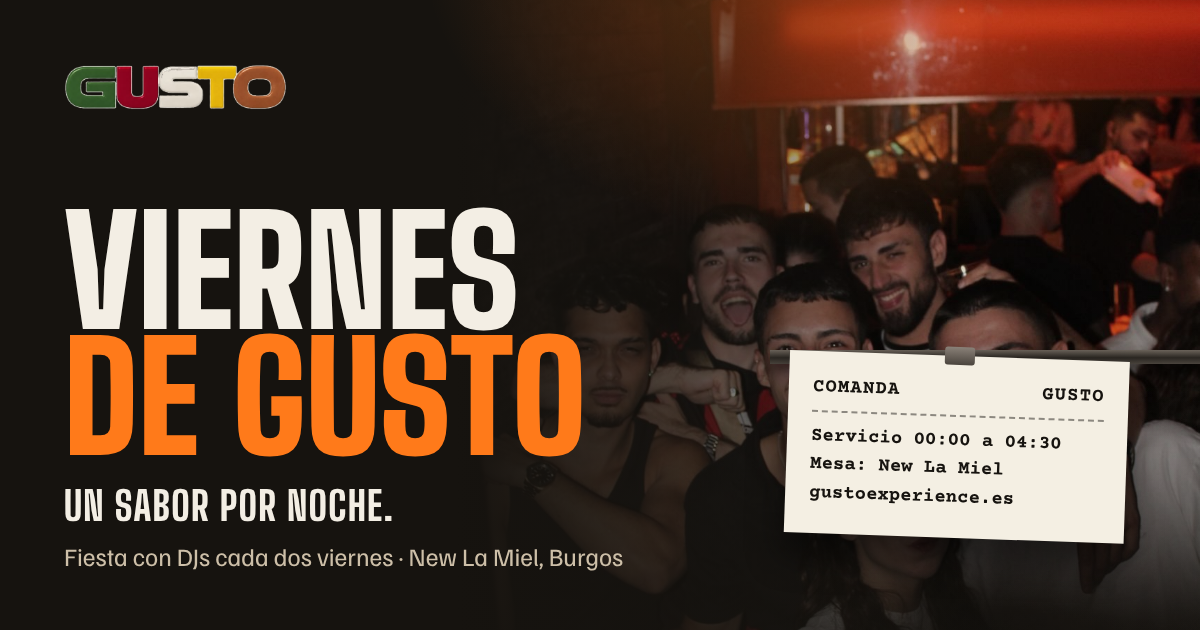
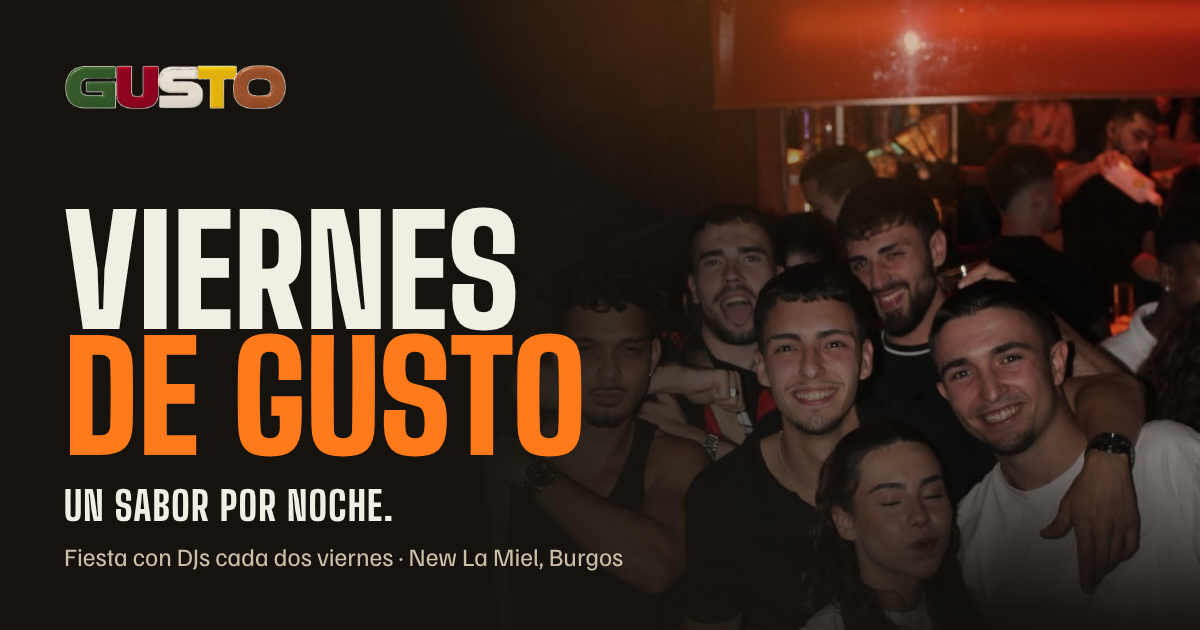
Imagen para compartir sin la comanda (og-image v6)
Claude-Session: https://claude.ai/code/session_01BAWG5sSexxeV32VypvJQZo

Changed region(s): [[0.6475, 0.5429, 1.0, 0.8746]]

diff --git a/index.html b/index.html
@@ -13,15 +13,15 @@
   <meta property="og:site_name" content="Viernes de Gusto">
   <meta property="og:title" content="Viernes de Gusto · New La Miel, Burgos">
   <meta property="og:description" content="El DJ en el centro y todos alrededor. Uno de cada dos viernes en New La Miel, Burgos. Primera edición: Umami, 16 de octubre.">
-  <meta property="og:image" content="https://www.gustoexperience.es/og-image.png?v=5">
+  <meta property="og:image" content="https://www.gustoexperience.es/og-image.png?v=6">
   <meta property="og:image:width" content="1200">
   <meta property="og:image:height" content="630">
-  <meta property="og:image:alt" content="Viernes de Gusto: foto de la fiesta en New La Miel con el título en grande y una comanda con el horario, de 00:00 a 04:30">
+  <meta property="og:image:alt" content="Viernes de Gusto: foto de la fiesta en New La Miel con el título en grande y el logo de Gusto">
   <meta property="og:locale" content="es_ES">
   <meta name="twitter:card" content="summary_large_image">
   <meta name="twitter:title" content="Viernes de Gusto · New La Miel, Burgos">
   <meta name="twitter:description" content="El DJ en el centro y todos alrededor. Uno de cada dos viernes en New La Miel, Burgos.">
-  <meta name="twitter:image" content="https://www.gustoexperience.es/og-image.png?v=5">
+  <meta name="twitter:image" content="https://www.gustoexperience.es/og-image.png?v=6">
   <link rel="icon" href="favicon-32.png?v=6" sizes="32x32" type="image/png">
   <link rel="icon" href="icon-192.png?v=6" sizes="192x192" type="image/png">
   <link rel="apple-touch-icon" href="apple-touch-icon.png?v=5">
@@ -64,7 +64,7 @@
         "endDate": "2026-10-17T04:30:00+02:00",
         "eventStatus": "https://schema.org/EventScheduled",
         "eventAttendanceMode": "https://schema.org/OfflineEventAttendanceMode",
-        "image": "https://www.gustoexperience.es/og-image.png?v=5",
+        "image": "https://www.gustoexperience.es/og-image.png?v=6",
         "location": { "@id": "#new-la-miel" },
         "organizer": [{ "@id": "#gusto" }, { "@id": "#new-la-miel" }],
         "performer": [

diff --git a/donde-se-sirve.html b/donde-se-sirve.html
@@ -13,15 +13,15 @@
   <meta property="og:site_name" content="Viernes de Gusto">
   <meta property="og:title" content="¿Dónde se sirve? · Viernes de Gusto">
   <meta property="og:description" content="El DJ en el centro y todos alrededor. Uno de cada dos viernes en New La Miel, Burgos. Primera edición: Umami, 16 de octubre.">
-  <meta property="og:image" content="https://www.gustoexperience.es/og-image.png?v=5">
+  <meta property="og:image" content="https://www.gustoexperience.es/og-image.png?v=6">
   <meta property="og:image:width" content="1200">
   <meta property="og:image:height" content="630">
-  <meta property="og:image:alt" content="Viernes de Gusto: foto de la fiesta en New La Miel con el título en grande y una comanda con el horario, de 00:00 a 04:30">
+  <meta property="og:image:alt" content="Viernes de Gusto: foto de la fiesta en New La Miel con el título en grande y el logo de Gusto">
   <meta property="og:locale" content="es_ES">
   <meta name="twitter:card" content="summary_large_image">
   <meta name="twitter:title" content="¿Dónde se sirve? · Viernes de Gusto">
   <meta name="twitter:description" content="El DJ en el centro y todos alrededor. Uno de cada dos viernes en New La Miel, Burgos.">
-  <meta name="twitter:image" content="https://www.gustoexperience.es/og-image.png?v=5">
+  <meta name="twitter:image" content="https://www.gustoexperience.es/og-image.png?v=6">
   <link rel="icon" href="favicon-32.png?v=6" sizes="32x32" type="image/png">
   <link rel="icon" href="icon-192.png?v=6" sizes="192x192" type="image/png">
   <link rel="apple-touch-icon" href="apple-touch-icon.png?v=5">

diff --git a/como-se-sirve.html b/como-se-sirve.html
@@ -13,15 +13,15 @@
   <meta property="og:site_name" content="Viernes de Gusto">
   <meta property="og:title" content="Cómo se sirve · Viernes de Gusto">
   <meta property="og:description" content="El DJ en el centro y todos alrededor. Uno de cada dos viernes en New La Miel, Burgos. Primera edición: Umami, 16 de octubre.">
-  <meta property="og:image" content="https://www.gustoexperience.es/og-image.png?v=5">
+  <meta property="og:image" content="https://www.gustoexperience.es/og-image.png?v=6">
   <meta property="og:image:width" content="1200">
   <meta property="og:image:height" content="630">
-  <meta property="og:image:alt" content="Viernes de Gusto: foto de la fiesta en New La Miel con el título en grande y una comanda con el horario, de 00:00 a 04:30">
+  <meta property="og:image:alt" content="Viernes de Gusto: foto de la fiesta en New La Miel con el título en grande y el logo de Gusto">
   <meta property="og:locale" content="es_ES">
   <meta name="twitter:card" content="summary_large_image">
   <meta name="twitter:title" content="Cómo se sirve · Viernes de Gusto">
   <meta name="twitter:description" content="El DJ en el centro y todos alrededor. Uno de cada dos viernes en New La Miel, Burgos.">
-  <meta name="twitter:image" content="https://www.gustoexperience.es/og-image.png?v=5">
+  <meta name="twitter:image" content="https://www.gustoexperience.es/og-image.png?v=6">
   <link rel="icon" href="favicon-32.png?v=6" sizes="32x32" type="image/png">
   <link rel="icon" href="icon-192.png?v=6" sizes="192x192" type="image/png">
   <link rel="apple-touch-icon" href="apple-touch-icon.png?v=5">

diff --git a/haz-tu-pedido.html b/haz-tu-pedido.html
@@ -13,15 +13,15 @@
   <meta property="og:site_name" content="Viernes de Gusto">
   <meta property="og:title" content="Haz tu pedido · Viernes de Gusto">
   <meta property="og:description" content="El DJ en el centro y todos alrededor. Uno de cada dos viernes en New La Miel, Burgos. Primera edición: Umami, 16 de octubre.">
-  <meta property="og:image" content="https://www.gustoexperience.es/og-image.png?v=5">
+  <meta property="og:image" content="https://www.gustoexperience.es/og-image.png?v=6">
   <meta property="og:image:width" content="1200">
   <meta property="og:image:height" content="630">
-  <meta property="og:image:alt" content="Viernes de Gusto: foto de la fiesta en New La Miel con el título en grande y una comanda con el horario, de 00:00 a 04:30">
+  <meta property="og:image:alt" content="Viernes de Gusto: foto de la fiesta en New La Miel con el título en grande y el logo de Gusto">
   <meta property="og:locale" content="es_ES">
   <meta name="twitter:card" content="summary_large_image">
   <meta name="twitter:title" content="Haz tu pedido · Viernes de Gusto">
   <meta name="twitter:description" content="El DJ en el centro y todos alrededor. Uno de cada dos viernes en New La Miel, Burgos.">
-  <meta name="twitter:image" content="https://www.gustoexperience.es/og-image.png?v=5">
+  <meta name="twitter:image" content="https://www.gustoexperience.es/og-image.png?v=6">
   <link rel="icon" href="favicon-32.png?v=6" sizes="32x32" type="image/png">
   <link rel="icon" href="icon-192.png?v=6" sizes="192x192" type="image/png">
   <link rel="apple-touch-icon" href="apple-touch-icon.png?v=5">

diff --git a/menu-del-mes.html b/menu-del-mes.html
@@ -13,15 +13,15 @@
   <meta property="og:site_name" content="Viernes de Gusto">
   <meta property="og:title" content="Menú del mes · Viernes de Gusto">
   <meta property="og:description" content="El DJ en el centro y todos alrededor. Uno de cada dos viernes en New La Miel, Burgos. Primera edición: Umami, 16 de octubre.">
-  <meta property="og:image" content="https://www.gustoexperience.es/og-image.png?v=5">
+  <meta property="og:image" content="https://www.gustoexperience.es/og-image.png?v=6">
   <meta property="og:image:width" content="1200">
   <meta property="og:image:height" content="630">
-  <meta property="og:image:alt" content="Viernes de Gusto: foto de la fiesta en New La Miel con el título en grande y una comanda con el horario, de 00:00 a 04:30">
+  <meta property="og:image:alt" content="Viernes de Gusto: foto de la fiesta en New La Miel con el título en grande y el logo de Gusto">
   <meta property="og:locale" content="es_ES">
   <meta name="twitter:card" content="summary_large_image">
   <meta name="twitter:title" content="Menú del mes · Viernes de Gusto">
   <meta name="twitter:description" content="El DJ en el centro y todos alrededor. Uno de cada dos viernes en New La Miel, Burgos.">
-  <meta name="twitter:image" content="https://www.gustoexperience.es/og-image.png?v=5">
+  <meta name="twitter:image" content="https://www.gustoexperience.es/og-image.png?v=6">
   <link rel="icon" href="favicon-32.png?v=6" sizes="32x32" type="image/png">
   <link rel="icon" href="icon-192.png?v=6" sizes="192x192" type="image/png">
   <link rel="apple-touch-icon" href="apple-touch-icon.png?v=5">

diff --git a/preguntas.html b/preguntas.html
@@ -13,15 +13,15 @@
   <meta property="og:site_name" content="Viernes de Gusto">
   <meta property="og:title" content="Preguntas · Viernes de Gusto">
   <meta property="og:description" content="El DJ en el centro y todos alrededor. Uno de cada dos viernes en New La Miel, Burgos. Primera edición: Umami, 16 de octubre.">
-  <meta property="og:image" content="https://www.gustoexperience.es/og-image.png?v=5">
+  <meta property="og:image" content="https://www.gustoexperience.es/og-image.png?v=6">
   <meta property="og:image:width" content="1200">
   <meta property="og:image:height" content="630">
-  <meta property="og:image:alt" content="Viernes de Gusto: foto de la fiesta en New La Miel con el título en grande y una comanda con el horario, de 00:00 a 04:30">
+  <meta property="og:image:alt" content="Viernes de Gusto: foto de la fiesta en New La Miel con el título en grande y el logo de Gusto">
   <meta property="og:locale" content="es_ES">
   <meta name="twitter:card" content="summary_large_image">
   <meta name="twitter:title" content="Preguntas · Viernes de Gusto">
   <meta name="twitter:description" content="El DJ en el centro y todos alrededor. Uno de cada dos viernes en New La Miel, Burgos.">
-  <meta name="twitter:image" content="https://www.gustoexperience.es/og-image.png?v=5">
+  <meta name="twitter:image" content="https://www.gustoexperience.es/og-image.png?v=6">
   <link rel="icon" href="favicon-32.png?v=6" sizes="32x32" type="image/png">
   <link rel="icon" href="icon-192.png?v=6" sizes="192x192" type="image/png">
   <link rel="apple-touch-icon" href="apple-touch-icon.png?v=5">

diff --git a/galeria.html b/galeria.html
@@ -13,15 +13,15 @@
   <meta property="og:site_name" content="Viernes de Gusto">
   <meta property="og:title" content="Galería · Viernes de Gusto">
   <meta property="og:description" content="El DJ en el centro y todos alrededor. Uno de cada dos viernes en New La Miel, Burgos. Primera edición: Umami, 16 de octubre.">
-  <meta property="og:image" content="https://www.gustoexperience.es/og-image.png?v=5">
+  <meta property="og:image" content="https://www.gustoexperience.es/og-image.png?v=6">
   <meta property="og:image:width" content="1200">
   <meta property="og:image:height" content="630">
-  <meta property="og:image:alt" content="Viernes de Gusto: foto de la fiesta en New La Miel con el título en grande y una comanda con el horario, de 00:00 a 04:30">
+  <meta property="og:image:alt" content="Viernes de Gusto: foto de la fiesta en New La Miel con el título en grande y el logo de Gusto">
   <meta property="og:locale" content="es_ES">
   <meta name="twitter:card" content="summary_large_image">
   <meta name="twitter:title" content="Galería · Viernes de Gusto">
   <meta name="twitter:description" content="El DJ en el centro y todos alrededor. Uno de cada dos viernes en New La Miel, Burgos.">
-  <meta name="twitter:image" content="https://www.gustoexperience.es/og-image.png?v=5">
+  <meta name="twitter:image" content="https://www.gustoexperience.es/og-image.png?v=6">
   <link rel="icon" href="favicon-32.png?v=6" sizes="32x32" type="image/png">
   <link rel="icon" href="icon-192.png?v=6" sizes="192x192" type="image/png">
   <link rel="apple-touch-icon" href="apple-touch-icon.png?v=5">

diff --git a/la-carta.html b/la-carta.html
@@ -13,15 +13,15 @@
   <meta property="og:site_name" content="Viernes de Gusto">
   <meta property="og:title" content="La Carta · Viernes de Gusto">
   <meta property="og:description" content="El DJ en el centro y todos alrededor. Uno de cada dos viernes en New La Miel, Burgos. Primera edición: Umami, 16 de octubre.">
-  <meta property="og:image" content="https://www.gustoexperience.es/og-image.png?v=5">
+  <meta property="og:image" content="https://www.gustoexperience.es/og-image.png?v=6">
   <meta property="og:image:width" content="1200">
   <meta property="og:image:height" content="630">
-  <meta property="og:image:alt" content="Viernes de Gusto: foto de la fiesta en New La Miel con el título en grande y una comanda con el horario, de 00:00 a 04:30">
+  <meta property="og:image:alt" content="Viernes de Gusto: foto de la fiesta en New La Miel con el título en grande y el logo de Gusto">
   <meta property="og:locale" content="es_ES">
   <meta name="twitter:card" content="summary_large_image">
   <meta name="twitter:title" content="La Carta · Viernes de Gusto">
   <meta name="twitter:description" content="El DJ en el centro y todos alrededor. Uno de cada dos viernes en New La Miel, Burgos.">
-  <meta name="twitter:image" content="https://www.gustoexperience.es/og-image.png?v=5">
+  <meta name="twitter:image" content="https://www.gustoexperience.es/og-image.png?v=6">
   <link rel="icon" href="favicon-32.png?v=6" sizes="32x32" type="image/png">
   <link rel="icon" href="icon-192.png?v=6" sizes="192x192" type="image/png">
   <link rel="apple-touch-icon" href="apple-touch-icon.png?v=5">
